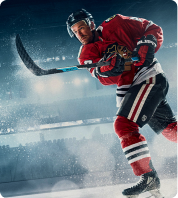
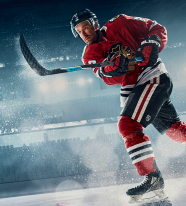
виды спорта

diff --git a/projects/mockup-to-html/index.html b/projects/mockup-to-html/index.html
@@ -38,9 +38,9 @@
 
       
       <div class="container intro">
-        <h1 class="h1 intro__h1"><span class="title">Company<span class="title_text-color_red">Name</span></span> — трансфер профессиональных игроков</h1>
+        <h1 class="h1 intro__h1"><span class="title">Company<span class="title_text-color_red">Name</span></span> — <br> трансфер профессиональных <br> игроков</h1>
         <div class="intro__text">Более 2047 игроков и 200 клубов в каталоге готовы для проведения переговоров о трансфере без посредников</div>
-        <div class="link link_background_red intro__link">Начать</div>
+        <a class="link link_background_red intro__link" href="#">Начать</a>
         <div class="intro__clubs">
           <div class="intro__club-description">Нам доверяют руководители и менеджеры более чем 200 клубов</div>
           <div class="intro__club-icons">
@@ -58,14 +58,48 @@
       <div class="container sports">
         <h5 class="h5 sports__h5">Виды спорта</h5>
         <div class="sports-list">
-          <div class="sports-list__card">
-            <a href="#" class="link link_img sports-list__img"></a>
+          <div class="sport-card">
+            <img src="images/sport_1.png" alt="Вид спорта 1" class="sport-card__img">
+            <div class="sport-card__menu">
+              <div class="sport-card__title">Хоккей</div>
+              <a class="link link-button sport-card__button" href="#"></a>
+            </div>
           </div>
-          <div class="sports-list__card"></div>
-          <div class="sports-list__card"></div>
-          <div class="sports-list__card"></div>
-          <div class="sports-list__card"></div>
-          <div class="sports-list__card"></div>
+          <div class="sport-card sport-card_inactive">
+            <img src="images/sport_2.png" alt="Вид спорта 2" class="sport-card__img">
+            <div class="sport-card__menu">
+              <div class="sport-card__title">Футбол</div>
+              <a class="link link-button sport-card__button" href="#"></a>
+            </div>
+          </div>
+          <div class="sport-card sport-card_inactive">
+            <img src="images/sport_3.png" alt="Вид спорта 3" class="sport-card__img">
+            <div class="sport-card__menu">
+              <div class="sport-card__title">Баскетбол</div>
+              <a class="link link-button sport-card__button" href="#"></a>
+            </div>
+          </div>
+          <div class="sport-card sport-card_inactive">
+            <img src="images/sport_4.png" alt="Вид спорта 4" class="sport-card__img">
+            <div class="sport-card__menu">
+              <div class="sport-card__title">Воллейбол</div>
+              <a class="link link-button sport-card__button" href="#"></a>
+            </div>
+          </div>
+          <div class="sport-card sport-card_inactive">
+            <img src="images/sport_5.png" alt="Вид спорта 5" class="sport-card__img">
+            <div class="sport-card__menu">
+              <div class="sport-card__title">Гандбол</div>
+              <a class="link link-button sport-card__button" href="#"></a>
+            </div>
+          </div>
+          <div class="sport-card sport-card_inactive">
+            <img src="images/sport_6.png" alt="Вид спорта 6" class="sport-card__img">
+            <div class="sport-card__menu">
+              <div class="sport-card__title">Регби</div>
+              <a class="link link-button sport-card__button" href="#"></a>
+            </div>
+          </div>
         </div>
       </div>
 

diff --git a/projects/mockup-to-html/css/style.css b/projects/mockup-to-html/css/style.css
@@ -94,6 +94,16 @@
     color: rgba(255, 255, 255, 0.7);
 }
 
+.link-button {
+    width: 35px;
+    height: 35px;
+
+    padding: 0;
+    border: none;
+    border-radius: 50%;
+    background: url('../images/arrow.svg') 55% center no-repeat, rgb(255, 32, 32);
+}
+
 .img {
     padding: 0;
 }
@@ -252,7 +262,7 @@
     flex-direction: column;
     align-items: flex-start;
 
-    padding-top: 74px;
+    padding-top: 85px;
 
     color: white;
 }
@@ -277,7 +287,7 @@
 }
 
 .intro__clubs {
-    padding-top: 80px;
+    padding-top: 75px;
     width: 533px;
 }
 
@@ -297,9 +307,11 @@
     justify-content: space-between;
     align-items: center;
 
+    height: 75px;
+
     width: 500px;
 
-    margin-bottom: 87px;
+    margin-bottom: 30px;
 }
 
 .intro__club-link {
@@ -356,7 +368,13 @@
     width: 100%;
 }
 
-.sports-list__card {
+.sport-card {
+    display: flex;
+    flex-direction: column;
+    justify-content: space-between;
+    
+    overflow: hidden;
+
     position: relative;
 
     width: calc(177px*0.9375);
@@ -369,21 +387,69 @@
     filter: drop-shadow(0px 4px 9px rgba(0, 0, 0, 0.35));
 }
 
-.sports-list__img {
-    display: block;
+.sport-card:not(:first-child) {
+    margin-left: 2px;
+}
+
+.sport-card:not(.sport-card_inactive)::after {
+    content: '';
+    position: absolute;
+
+    left: 0;
+    bottom: 0;
+
+    width: 100%;
+    height: 100px;
+    background: linear-gradient(rgba(13, 26, 39, 0), #0D1A27);
+
+    z-index: -900;
+}
+
+.sport-card_inactive::before {
+    content: 'Скоро';
+    position: absolute;
+    left: 14px;
+    top: 19px;
+
+    font: 500 14px 'Google Sans', sans-serif;
+    color: rgb(255, 42, 42);
+}
+
+.sport-card_inactive .sport-card__img {
+    opacity: 30%;
+}
+
+.sport-card_inactive .sport-card__button{
+    visibility: hidden;
+}
+
+.sport-card__img {
     position: absolute;
     left: 50%;
     top: 50%;
     transform: translate(-50%, -50%);
+    
+    width: auto;
+    height: 101%;
 
-    background: url('../images/sport_1.png') top left no-repeat;
-    background-size: 100%;
+    z-index: -1000;
+}
 
-    width: 100%;
-    height: 100%;
+.sport-card__menu {
+    display: flex;
+    flex-direction: row;
+    justify-content: space-between;
+    align-items: center;
 
-    z-index: 1000;
-    /* outline: 1px solid salmon; */
+    /* height: 50px; */
+    margin-top: auto;
+    padding: 12px 9px;
+}
+
+.sport-card__title {
+    font-family: 'Google Sans', sans-serif;
+    font-weight: 500;
+    font-size: 18px;
 }
 
 
@@ -416,10 +482,13 @@
     display: flex;
     flex-direction: column;
     align-items: center;
+    justify-content: flex-start;
+
+    height: 100%;
 }
 
 .footer__main {
-    /* align-items: flex-start; */
+    align-items: flex-start;
 
     padding-left: 0;
     padding-right: 0;
